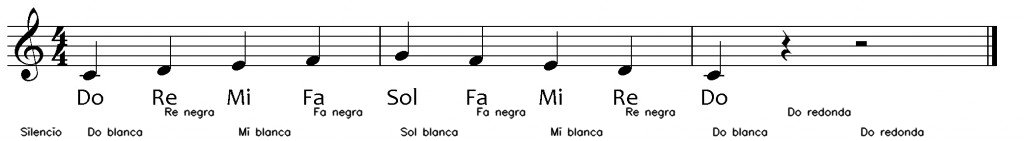
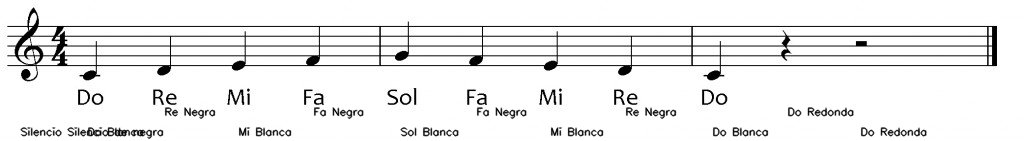
Nuevo menu edicion

diff --git a/app/pygame_funcs/pop_up/pop_up.py b/app/pygame_funcs/pop_up/pop_up.py
@@ -1,91 +1,109 @@
 import tkinter as tk
 
-def save(root, pentagrama, nota, entries, value_var):
-    i: int = 0
-    for var in vars(nota).keys():
-        if var != "rectangulo" and var != "pentagrama" and var != "alteracion":
-            value = entries[i].get()
-            if value.isdecimal():
-                value = int(value)
-            else:
-                value = value.capitalize()
-                if var == "figura" and value not in ["Blanca", "Corchea", "Redonda", "Negra"]\
-                        or var == "nota" and value not in ["Do", "Re", "Mi", "Fa", "Sol", "La", "Si", "Silencio", "Clave de sol", "Otra figura"]:
-                    value = getattr(nota, var)
-            pentagrama.cambiar_nota(nota, var, value)
-            i += 1
-        elif var == "alteracion":
-            pentagrama.cambiar_nota(nota, var, value_var.get())
-        
-    root.destroy()
-
-
 def remove(root, partitura, index: int):
     partitura.borrar_nota(index)
     root.destroy()
 
 
-def onKeyPress(event, root, pentagrama, nota, entries):
+def onKeyPress(event, root):
     if event.keysym == "Return":
-        save(root, pentagrama, nota, entries)
+        root.destroy()
 
 
+def set_nota(root, partitura, pentagrama, POSIBILIDADES, atributo,value, index):
+    nota = partitura.notas[index]
+    if atributo == "octava":
+        POSIBILIDADES_OCTAVAS_REVERSE = {v:k for k,v in POSIBILIDADES["OCTAVAS"].items()}
+        value = POSIBILIDADES_OCTAVAS_REVERSE[value]
+    pentagrama.cambiar_nota(nota, atributo, value)
+    draw(root, partitura, POSIBILIDADES, index)
 
+def draw(root, partitura, POSIBILIDADES, index):
+    
+    for widget in root.winfo_children():
+        widget.destroy()
 
-def open_popup(partitura, index: int):
 
     nota = partitura.notas[index]
     pentagrama = nota.pentagrama
 
+
+    variable_nota = tk.StringVar()
+    variable_nota.set(nota.nota)
+
+    tk.Label(root, text = "Nota: ").grid(row=0, column=0)
+    opciones_nota = tk.OptionMenu(root, variable_nota, *POSIBILIDADES["NOTAS_POSIBLES"], command = lambda value: set_nota(root, partitura, pentagrama, POSIBILIDADES, "nota", value, index))
+    opciones_nota.grid(row = 0, column = 1)
+
+    form = [("nota", opciones_nota)]
+
+    i: int = 1
+
+    if nota.nota not in ["Clave de sol", "Otra figura", "Silencio"]:
+        tk.Label(root, text = "Octava: ").grid(row=1, column=0)
+        variable_octava = tk.StringVar()
+        variable_octava.set(POSIBILIDADES["OCTAVAS"][nota.octava])
+        opciones_octava = tk.OptionMenu(root, variable_octava, *POSIBILIDADES["OCTAVAS"].values(), command = lambda value: set_nota(root, partitura, pentagrama, POSIBILIDADES, "octava", value, index))
+        opciones_octava.grid(row = 1, column = 1)
+
+        tk.Label(root, text = "Figura: ").grid(row=2, column=0)
+        variable_figura = tk.StringVar()
+        variable_figura.set(nota.figura)
+        opciones_figura = tk.OptionMenu(root, variable_figura, *POSIBILIDADES["FIGURAS_POSIBLES"], command = lambda value: set_nota(root, partitura, pentagrama, POSIBILIDADES, "figura", value, index))
+        opciones_figura.grid(row = 2, column = 1)
+
+        tk.Label(root, text = "Alteración: ").grid(row=3, column=0)
+        variable_alteracion = tk.StringVar()
+        variable_alteracion.set(nota.alteracion)
+        opciones_alteracion = tk.OptionMenu(root, variable_alteracion, *POSIBILIDADES["ALTERACIONES_POSIBLES"], command = lambda value: set_nota(root, partitura, pentagrama, POSIBILIDADES, "alteracion", value, index))
+        opciones_alteracion.grid(row = 3, column = 1)
+
+        form.append(("octava", variable_octava))
+        form.append(("figura", variable_figura))
+        form.append(("alteracion", variable_alteracion))
+
+        i = 4
+
+
+    elif nota.nota == "Silencio":
+        tk.Label(root, text = "Figura: ").grid(row=1, column=0)
+        variable_figura = tk.StringVar()
+        variable_figura.set(nota.figura)
+        opciones_figura = tk.OptionMenu(root, variable_figura, *POSIBILIDADES["SILENCIOS_POSIBLES"], command = lambda value: set_nota(root, partitura, pentagrama, POSIBILIDADES, "figura", value, index))
+        opciones_figura.grid(row = 1, column = 1)
+        
+        
+        i = 2
+
+
+    button_borrar = tk.Button(root, text="Borrar nota", padx=19, pady=5, command = lambda: remove(
+        root, partitura, index), background="red")
+    button_borrar.grid(row=i, column=0, columnspan=1)
+
+    button_guardar = tk.Button(root, text="Cerrar", padx=19, pady=5, command = lambda: root.destroy(), background="green")
+    button_guardar.grid(row=i, column=1, columnspan=1)
+    root.bind('<KeyPress>', lambda event: onKeyPress(event, root))
+
+
+
+def open_popup(partitura, index: int):
+    POSIBILIDADES = {
+        "NOTAS_POSIBLES" : ["Do", "Re", "Mi", "Fa", "Sol", "La", "Si", "Silencio", "Clave de sol", "Otra figura"],
+        "OCTAVAS" : {2: "Octava baja", 3: "Octava normal", 4: "Octava alta"},
+        "FIGURAS_POSIBLES" : ["Corchea", "Negra", "Blanca", "Redonda"],
+        "ALTERACIONES_POSIBLES" : ["Natural", "Sostenido", "Bemol"],
+        "SILENCIOS_POSIBLES" :  ["Silencio de negra", "Silencio de blanca", "Silencio de redonda", "Silencio de corchea"]
+    }
+    
+    
     root = tk.Tk()
-    root.geometry("750x270")
+    root.geometry("240x180")
+    
 
     root.title("Configuración nota")
 
-    labels = []
-    entries = []
-    i: int = 0
-
-    for var, value in vars(nota).items():
-        if var != "rectangulo" and var != "pentagrama" and var != "alteracion":
-            labels.append(tk.Label(root, text = var).grid(row=i, column=0))
-            entry = tk.Entry(root)
-            entry.grid(row=i, column=1)
-            entry.insert(0, value)
-            if i == 0:
-                entry.focus_force()
-            entries.append(entry)
-            i += 1
-        elif var == "alteracion":
-            label = tk.Label(root, text="Alteración")
-            label.grid(row = i, column = 1)
-            i += 1
-            value_var = tk.StringVar()
-            value_var.set(nota.alteracion)
-
-            b1 = tk.Radiobutton(root, text="Natural", variable=value_var,
-                        value="Natural")
-            b1.grid(row = i, column = 1)
-            i += 1
-            b2 = tk.Radiobutton(root, 
-            text="Sostenido", variable=value_var,
-                        value="Sostenido")
-            b2.grid(row = i, column = 1)
-            i += 1
-            b3 = tk.Radiobutton(root, text="Bemol", variable=value_var,
-                        value="Bemol")
-            b3.grid(row = i, column = 1)
-            i += 1
+    draw(root, partitura, POSIBILIDADES, index)
     
-    button_borrar = tk.Button(root, text="Borrar nota", padx=19, pady=5, command=lambda: remove(
-        root, partitura, index), background="red")
-    button_borrar.grid(row=i, column=0, columnspan=3)
-    button_guardar = tk.Button(root, text="Guardar", padx=19, pady=5, command=lambda: save(
-        root, pentagrama, nota, entries, value_var), background="green")
-    button_guardar.grid(row=i+1, column=0, columnspan=3)
-    root.bind('<KeyPress>', lambda event: onKeyPress(
-        event, root, pentagrama, nota, entries))
-
     root.mainloop()
-
+    
     return True

diff --git a/app/pygame_funcs/instrucciones.py b/app/pygame_funcs/instrucciones.py
@@ -12,7 +12,7 @@ def blit_long_text(text:str, screen, font_name, size, x_start, x_end, y_start, c
     frases:list = text.split("\n")
     for frase in frases:
         words:list = frase.split(" ")
-        print(words)
+        
         for word in words:
 
             word_t = font.render(word, True, colour)
@@ -56,8 +56,7 @@ def main_instrucciones(buttons_width:int, height:int, font) -> bool:
         for event in pygame.event.get():
             if event.type == pygame.QUIT:
                 to_return = False
-
-
+        
         
         pygame.display.update()
 

diff --git a/app/lectura_partituras/functions/diferenciar_figuras.py b/app/lectura_partituras/functions/diferenciar_figuras.py
@@ -188,7 +188,7 @@ def diferenciar_figuras(figura:list, posiciones_cuadrado:list, posiciones_rectan
         return Nota("Otra figura", 0, posiciones_rectangulo)
 
     elif altura >= 0.5 * (altura_pentagrama):
-        return Nota("Silencio", 0, posiciones_rectangulo)
+        return Nota("Silencio", 0, posiciones_rectangulo, "Silencio de negra")
 
     punto_medio:float = posiciones_cuadrado[0] + (posiciones_cuadrado[1] - posiciones_cuadrado[0]) / 2
 
